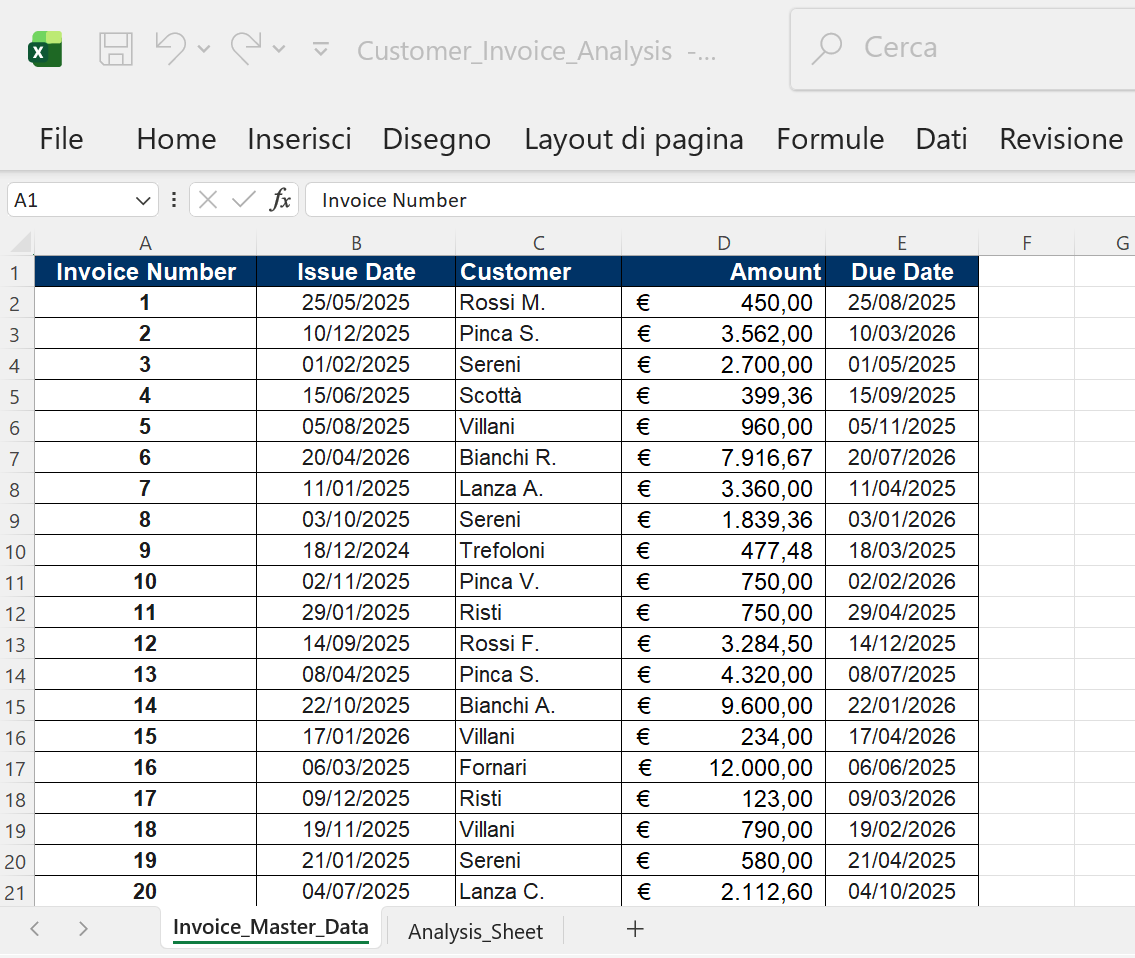
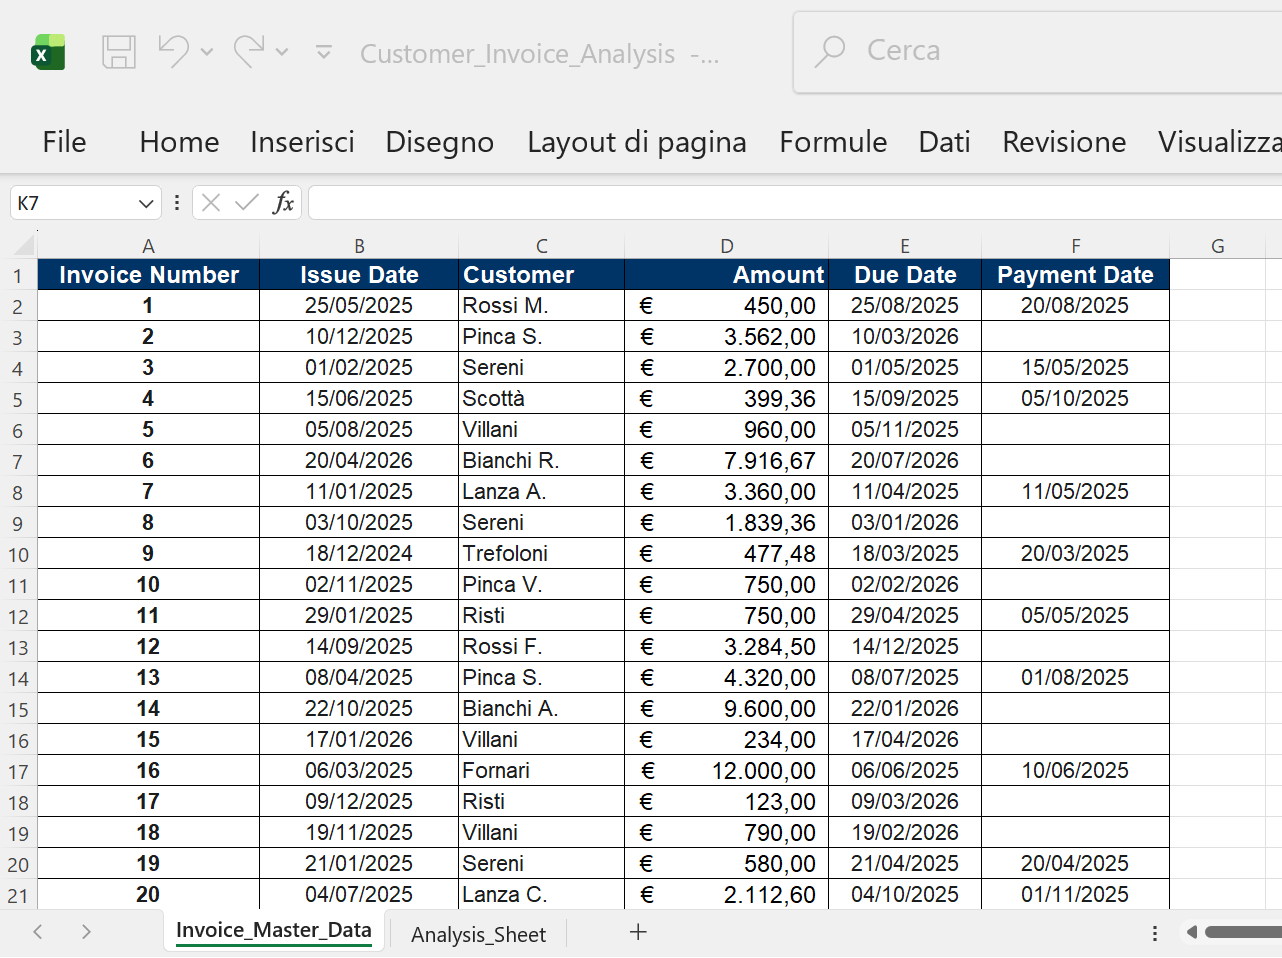
FEAT: Complete Analysis Sheet calculations and implement interactive Customer Dashboard
This commit finalizes the core financial analysis logic within the Analysis_Sheet and implements the interactive Customer Dashboard.

* **Analysis Sheet Completion:**
    * Implemented formulas for `Calculated Status` (Col. H) and `Days Overdue` (Col. I) to accurately track invoice settlement, delinquency, and current risk exposure based on the `Reference Date`.
    * Documented the logic for **Conditional Formatting** (Green/Yellow/Red) to visually highlight invoice status.
* **Interactive Dashboard:**
    * Created four dynamic tables in the new `Dashboard` sheet for per-customer analysis.
    * Added **Data Validation** (Dropdown Menu) setup using the `UNIQUE()` function for dynamic customer selection.
    * Implemented **COUNTIF/SUMIF** formulas for **Total Metrics** (Total Invoices Issued, Total Amount Billed).
    * Implemented **COUNTIFS/SUMIFS** formulas for **Outstanding Metrics** (Total Outstanding Invoice Count, Total Outstanding Amount), targeting only "Overdue" and "Unpaid" invoices.
* **README Documentation:**
    * The README file was thoroughly updated to reflect all new formulas, column positions, and the full operational logic of the Dashboard tables and conditional formatting.

diff --git a/README.md b/README.md
@@ -15,6 +15,7 @@ The project is structured to separate raw data from calculations. Analysis is ba
 | **Customer** | Client name. | Text |
 | **Amount** | Total transaction value. | Currency |
 | **Due Date** | Payment deadline. | Date |
+| **Payment Date** | Actual date payment was received (Manual input). Null if not yet paid. | Date |
 
 ![Screenshot 1 - Invoice_Master_Data Sheet Setup](assets/screenshot_1_invoice_master_data.png)
 
@@ -26,9 +27,54 @@ The project is structured to separate raw data from calculations. Analysis is ba
 
 | Column | Description | Role |
 | :--- | :--- | :--- |
-| **A-E** | **Input Columns** | Copied from Master Data for tracing. |
-| **F** | **Reference Date** | Fixed comparison date (20/11/2025). |
-| **G** | **Calculated Status** | **FORMULA:** Shows if invoice is Overdue or Unpaid. |
-| **H** | **Days Overdue** | **FORMULA:** Calculates days past due. |
+| **A-F** | **Input Columns** | Copied from Master Data for tracing. (A-E are original inputs, F is Payment Date). |
+| **G** | **Reference Date** | Fixed comparison date (20/11/2025). |
+| **H** | **Calculated Status** | **FORMULA:** Shows if invoice is Paid, Overdue, or Unpaid. It prioritizes the Payment Date (F). |
+| **I** | **Days Overdue** | **FORMULA:** Calculates days past due. |
 
 ![Screenshot 2 - Analysis_Sheet Setup](assets/screenshot_2_analysis_sheet.png)
+
+---
+
+## 3. 🧠 Calculation Logic: Calculated Status (Column H)
+
+The core of the financial analysis lies in determining the status of each invoice, documented in the **Calculated Status (Column H)**. The formula used is:
+
+`=IF(F2<>"","PAID",IF(E2<$G$2,"OVERDUE","UNPAID"))`
+
+This formula prioritizes the transaction history over the deadline, operating in a hierarchy:
+
+1.  **Paid Priority:** The system first checks the **Payment Date (Column F)**. If a date exists, the invoice is immediately marked as **PAID**. This status supersedes all other considerations, as the debt has been settled.
+2.  **Overdue Check:** If the invoice has not been paid (i.e., Payment Date is null), the formula uses the fixed **Reference Date (Column G)** to check for delinquency. If the **Due Date (Column E)** is earlier than the Reference Date, the invoice is marked as **OVERDUE**.
+3.  **Upaid Status:** If the invoice is neither PAID nor OVERDUE, it is marked as **UNPAID**. This means the payment is still expected, but the deadline has not yet been reached relative to the Reference Date.
+
+---
+
+## 4. ✨ Conditional Formatting
+
+To provide a quick visual assessment of the invoice portfolio, Conditional Formatting is applied to the **Calculated Status (Column H)** using three simple rules:
+
+| Condition | Rule | Formatting |
+| :--- | :--- | :--- |
+| Cell value is equal to `"PAID"` | `=H2="PAID"` | **Green** Fill (Completed transactions) |
+| Cell value is equal to `"UNPAID"` | `=H2="UNPAID"` | **Yellow** Fill (Expected items, not yet due) |
+| Cell value is equal to `"OVERDUE"` | `=H2="OVERDUE"` | **Red** Fill (Critical items, past due and unpaid) |
+
+This visual system allows analysts to immediately identify critical items (Red), expected items (Yellow), and completed transactions (Green).
+
+![Screenshot 3 - Analysis_Sheet Setup](assets/screenshot_3_conditional_formatting.png)
+
+---
+
+## 5. 🗓 Days Overdue (Column I - Screenshot 4)
+
+The **Days Overdue (Column I)** calculates the number of days a currently unpaid invoice is past its due date. This calculation only applies to invoices marked as **OVERDUE** in Column H.
+
+The formula used is:
+
+`=IF(H2="OVERDUE",$G$2-E2,0)`
+
+* If the status in **Column H** is **OVERDUE**, the formula calculates the difference between the **Reference Date (G)** and the **Due Date (E)**.
+* For all other statuses (PAID or UNPAID), the value is set to **0**, as the invoice is either settled or not yet due.
+
+![Screenshot 4 - Analysis_Sheet Setup](assets/screenshot_4_days_overdue.png)
